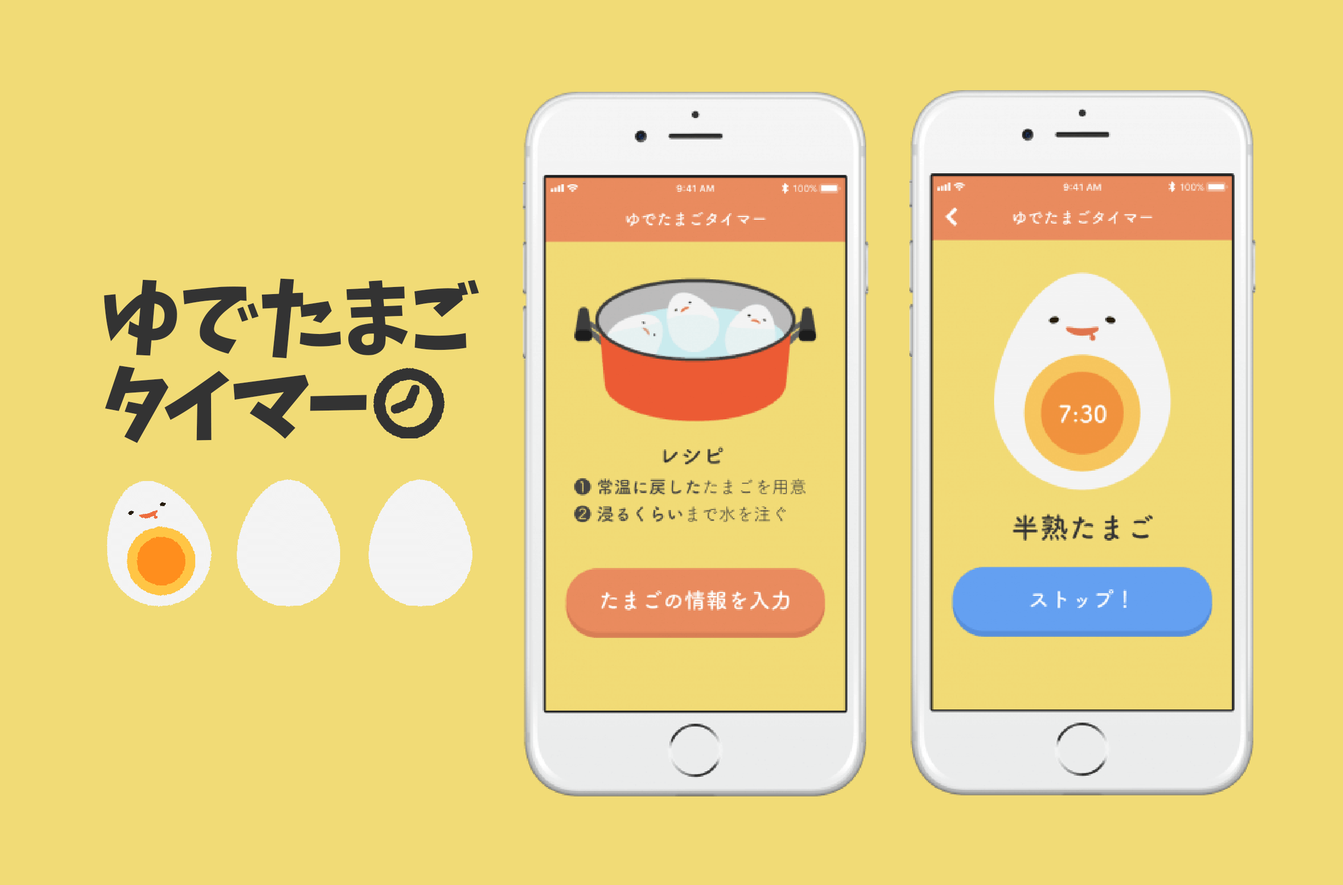
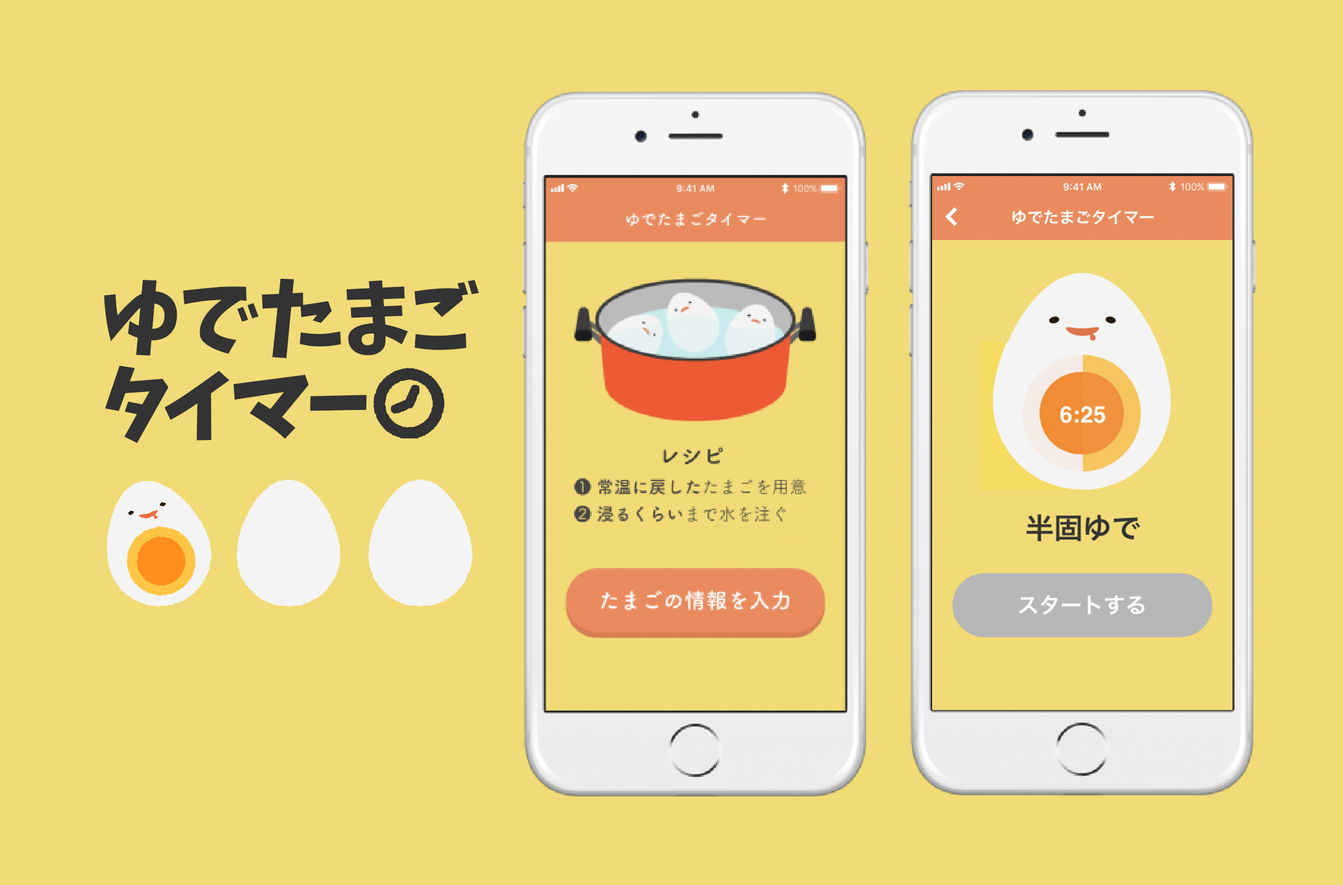
一旦push

Changed region(s): [[0.7117, 0.4015, 0.9283, 0.7412], [0.7427, 0.1853, 0.8355, 0.2779], [0.8664, 0.1853, 0.8974, 0.2162]]

diff --git a/work-all.html b/work-all.html
@@ -41,7 +41,18 @@
     <div id="works">
         <a href="index.html" class="works__back"><i class="fas fa-caret-left"></i> TOPへ戻る</a>
         <h2> WORKS </h2>
+
         <div class="works__contents">
+            <a href="mousehat.html" class="works__contents--link">
+                <div class="works__contents--column">
+                    <div class="works__contents--img"><img src="imgs/create/mousehat.png" alt="Mousehat"></div>
+                    <div class="works__contents--txt">
+                        <h3>Mousehat</h3>
+                        <span class="works__contents--about">口癖を直すサポートをするWebアプリです。上手く発表がしたい人や口癖を直したい人、気付きたい人がターゲットです。私はUIデザインとUXデザインを担当しました。</span>
+                        <span class="works__contents--more">MORE</span>
+                    </div>
+                </div>
+            </a>
             <a href="boiled-egg.html" class="works__contents--link">
                 <div class="works__contents--column">
                     <div class="works__contents--img"><img src="imgs/create/boiled_egg.png" alt="ゆでたまごタイマー"></div>
@@ -64,6 +75,20 @@
                     </div>
                 </div>
             </a>
+        </div>
+        <div class="works__contents">
+
+
+            <a href="waths_hobby.html" class="works__contents--link">
+                <div class="works__contents--column">
+                    <div class="works__contents--img"><img src="imgs/create/whats_hobby.png" alt="汝の趣味はなんや?"></div>
+                    <div class="works__contents--txt">
+                        <h3>汝の趣味はなんや?</h3>
+                        <span class="works__contents--about">サークル内のハッカソンで作ったアプリで企画・制作を担当しました。趣味版の人狼ゲームで、他の人の趣味を当てることで参加者が仲良くなることを目的としたアプリです。</span>
+                        <span class="works__contents--more">MORE</span>
+                    </div>
+                </div>
+            </a>
             <a href="interactive-nail.html" class="works__contents--link">
                 <div class="works__contents--column">
                     <div class="works__contents--img">
@@ -72,30 +97,6 @@
                     <div class="works__contents--txt">
                         <h3>InteractiveNail　</h3>
                         <span class="works__contents--about">カーソル位置によって背景色と爪の色が変わるコンテンツです。インタラクティブで楽しいコンテンツで、いろんな色のネイルを試してみたいという気持ちから作った作品です。</span>
-                        <span class="works__contents--more">MORE</span>
-                    </div>
-                </div>
-            </a>
-        </div>
-        <div class="works__contents">
-            <a href="https://www.pinterest.jp/pin/668784613399795422" class="works__contents--link">
-                <div class="works__contents--column">
-                    <div class="works__contents--img">
-                        <img src="imgs/create/character_illust.png" alt="女の子のイラストアイコン">
-                    </div>
-                    <div class="works__contents--txt">
-                        <h3>女の子のイラストアイコン</h3>
-                        <span class="works__contents--about">Illustratorで作成した女の子のイラストアイコンです。シンプルなパーツでも喜怒哀楽の表情が伝わるようにした部分がポイントです。</span>
-                        <span class="works__contents--more">MORE</span>
-                    </div>
-                </div>
-            </a>
-            <a href="whats_hobby.html" class="works__contents--link">
-                <div class="works__contents--column">
-                    <div class="works__contents--img"><img src="imgs/create/whats_hobby.png" alt="汝の趣味はなんや?"></div>
-                    <div class="works__contents--txt">
-                        <h3>汝の趣味はなんや?</h3>
-                        <span class="works__contents--about">サークル内のハッカソンで作ったアプリで企画・制作を担当しました。趣味版の人狼ゲームで、他の人の趣味を当てることで参加者が仲良くなることを目的としたアプリです。</span>
                         <span class="works__contents--more">MORE</span>
                     </div>
                 </div>
@@ -114,6 +115,29 @@
             </a>
         </div>
         <div class="works__contents">
+            <a href="https://www.pinterest.jp/pin/668784613399795422" class="works__contents--link">
+                <div class="works__contents--column">
+                    <div class="works__contents--img">
+                        <img src="imgs/create/character_illust.png" alt="女の子のイラストアイコン">
+                    </div>
+                    <div class="works__contents--txt">
+                        <h3>女の子のイラストアイコン</h3>
+                        <span class="works__contents--about">Illustratorで作成した女の子のイラストアイコンです。シンプルなパーツでも喜怒哀楽の表情が伝わるようにした部分がポイントです。</span>
+                        <span class="works__contents--more">MORE</span>
+                    </div>
+                </div>
+            </a>
+
+            <a href="https://www.pinterest.jp/pin/668784613395435766/" class="works__contents--link">
+                <div class="works__contents--column">
+                    <div class="works__contents--img"><img src="imgs/create/newyearcard2019.png" alt="年賀状2019"></div>
+                    <div class="works__contents--txt">
+                        <h3>年賀状2019</h3>
+                        <span class="works__contents--about">2019年の年賀状です。私のあだ名である「きなこ」と正月らしいお餅や風雲のモチーフを散りばめ、私からの年賀状だということがひと目でわかるようなデザインにしました</span>
+                        <span class="works__contents--more">MORE</span>
+                    </div>
+                </div>
+            </a>
             <a href="https://jack-web.herokuapp.com/" class="works__contents--link">
                 <div class="works__contents--column">
                     <div class="works__contents--img">
@@ -126,12 +150,16 @@
                     </div>
                 </div>
             </a>
-            <a href="https://www.pinterest.jp/pin/668784613395435766/" class="works__contents--link">
+
+        </div>
+        <div class="works__contents">
+
+            <a href="https://www.pinterest.jp/pin/668784613399885773/" class="works__contents--link">
                 <div class="works__contents--column">
-                    <div class="works__contents--img"><img src="imgs/create/newyearcard2019.png" alt="年賀状2019"></div>
+                    <div class="works__contents--img"><img src="imgs/create/02gelatopiqueAutumnsale-renew.png" alt="ルームウェアの秋セールバナー"></div>
                     <div class="works__contents--txt">
-                        <h3>年賀状2019</h3>
-                        <span class="works__contents--about">2019年の年賀状です。私のあだ名である「きなこ」と正月らしいお餅や風雲のモチーフを散りばめ、私からの年賀状だということがひと目でわかるようなデザインにしました</span>
+                        <h3>ルームウェアの秋セールバナー</h3>
+                        <span class="works__contents--about">ルームウェアの秋セールバナーを想定した架空のバナーです。商品のイメージが伝わる装飾をすることや、視線誘導や情報処理を正しく行う練習になりました。</span>
                         <span class="works__contents--more">MORE</span>
                     </div>
                 </div>
@@ -144,6 +172,16 @@
                     <div class="works__contents--txt">
                         <h3>ペアデザイン</h3>
                         <span class="works__contents--about">WEBデザイナーとしてスキルアップしたいと思い、始めた取り組みです。ペアで共通のテーマを決め、お互いのデザインをコーディングするというものです。</span>
+                        <span class="works__contents--more">MORE</span>
+                    </div>
+                </div>
+            </a>
+            <a href="boiled-egg.html" class="works__contents--link">
+                <div class="works__contents--column">
+                    <div class="works__contents--img"><img src="imgs/create/boiled_egg.png" alt="おすそわけキャンパス"></div>
+                    <div class="works__contents--txt">
+                        <h3>おすそわけキャンパス</h3>
+                        <span class="works__contents--about">1人暮らしで料理好きな大学生向けに、食材のシェアリングサービスを考えました。ユーザーテストやユーザーインタビューを重ねて改善中です。</span>
                         <span class="works__contents--more">MORE</span>
                     </div>
                 </div>

diff --git a/boiled-egg.html b/boiled-egg.html
@@ -33,7 +33,6 @@
         gtag('js', new Date());
 
         gtag('config', 'UA-122093800-3');
-
     </script>
 
 </head>
@@ -49,27 +48,42 @@
                     <h3>概要</h3>
                     料理初心者でも簡単にゆでたまごが作れるタイマーのデザインをしました。
                     <img src="imgs/create/about/boiled_egg/tamago_face.png" alt="ゆで具合によって変わるゆでたまごの表情"> ゆでている途中でたまごの状態を確認できることと、シンプルでわかりやすく可愛いUIが特徴です。
-                    <br><br>また、友人に実装してもらい、現在AppStoreにリリース申請中です。<br><br>
+                    <br><br>また、友人に実装してもらい、現在AppStoreにリリース申請中です。<br><br>現在、友人や家族にTestflightで試してもらいながら改善を行なっています。（下記参照）<br><br>
                     <a class="link-important" href="https://xd.adobe.com/view/734c06a6-1743-44b7-42e2-7f0d1623abf8-057d/">プロトタイプ</a>
                 </div>
                 <div class="works__single--txt">
                     <h3>きっかけ</h3>
                     このアプリを作ろうとしたきっかけは、自分で半熟たまごを作ろうとして失敗したことからです。<br><br>
                     <img src="imgs/create/about/boiled_egg/kizon.png" alt="既存のゆでたまごタイマー">既存のゆでたまごタイマーはたまごを茹でている途中の状態がわからなかったり、作業感のあるものばかりでした。<br><br>そのため、ゆで途中のたまごの状態がわかるようにし、さらに可愛いキャラクターを用いることで料理中の体験を楽しくするような工夫を取り入れました。
-                    <br><br>現在、友人や家族にTestflightで試してもらいながら改善を行なっています。（下記参照）
+                    <br><br> 現在、Testflightの状態で試してもらえる周りの人は料理上級者ばかりで、UIの検証・改善しか出来ていない状態です。<br>
+                    <br> リリース後は料理初心者に試してもらい、改善を繰り返したいと思います。
                 </div>
             </div>
             <div class="works__single--txts">
                 <div class="works__single--txt">
                     <h3>改善中</h3>
-                    <h4>1回目のユーザーテスト</h4>
-                    母親に自宅のキッチンで実際に使ってもらった結果、以下の課題が見つかりました。
+                    <h4>母親に試してもらって（1回目のユーザーテスト）</h4>
+                    今回のユーザーテストの目的は、UIなどで使いにくい部分がないか確認してもらうことでした。<br><br>
+                    <img src="imgs/create/about/boiled_egg/user1_mother.png" alt="母親の属性"> 母親に自宅のキッチンで実際に使ってもらった結果、以下の課題が見つかりました。
                     <ul>
-                        <li>レシピに火加減が書いていない</li>
+                        <li>レシピに火加減が書いていないから困る</li>
                         <li>スタートボタンを押したのかわからないUI</li>
-                        <li>「固ゆで」で作ったたまごが半生だった</li>
+                        <li>「固ゆで」で作ったたまごが半固ゆでだった</li>
                     </ul>
-                    <img src="imgs/create/about/boiled_egg/kaizen1.png" alt="テスト1回目の改善案">
+                    <img src="imgs/create/about/boiled_egg/kaizen1.png" alt="テスト1回目の改善案"> XDのプロトタイプで上記の仮説を反映させたものを作り、2回目のユーザーテストを行いました。
+                </div>
+                <div class="works__single--txt">
+                    <h3 class="no-deco-h3"></h3>
+                    <h4>友人に試してもらって（2回目のユーザーテスト）</h4>
+                    今回のユーザーテストの目的は、プロトタイプで改善したものを触ってもらって、1回目のユーザーテストで立てた仮説を検証することでした。<br><br>
+                    <img src="imgs/create/about/boiled_egg/user2_friend.png" alt="友人の属性"> 友人の家で実際に使ってもらった結果、以下のことがわかりました。
+                    <ul>
+                        <li>とろとろたまごは殻が剥けないので、ゆでたまごには不向きかもしれない</li>
+                        <li>殻をむきやすくする方法もあった方が良い</li>
+                        <li>コンロの火力が違ったため、強火でもとろとろ卵だった</li>
+                        <li>しかし、基準の時間から3分足すと成功する</li>
+                    </ul>
+                    <img src="imgs/create/about/boiled_egg/kaizen1.png" alt="テスト2回目の改善案"> 今回得られた発見を反映させ、今後は初心者の人に試してもらいたいと思います。
                 </div>
             </div>
         </div>

diff --git a/portfolio2019.html b/portfolio2019.html
@@ -45,15 +45,18 @@
             <div class="works__single--img"><img src="imgs/create/portfolio2019.png" alt="PORTFOLIO2019"></div>
             <div class="works__single--txts">
                 <div class="works__single--txt">
-                    <h3>概要</h3>
-                    自分のことや作品について知ってもらうためのポートフォリオサイトです。<br> 私はよく「ふわふわしている」と言われるのでふわふわとしたモチーフをトップに散りばめ、ポートフォリオ全体の雰囲気もパステルカラーや丸いフォントを用いることで私のイメージを表現しました。
+                    <h3>どんなポートフォリオ?</h3>
+                    自分のことや作品について知ってもらうためのポートフォリオサイトです。<br>
+                    <img src="imgs/create/about/portfolio/new_portfolio.png" alt="新ポートフォリオ"> 私はよく「ふわふわしている」と言われるのでふわふわとしたモチーフをトップに散りばめ、ポートフォリオ全体の雰囲気もパステルカラーや丸いフォントを用いることで私のイメージを表現しました。
+                    <br>
                     <br> HTML,CSS,JSを用いて作っており、jQueryを使わないことで少しでも読み込み速度が早くなるようにしました。
-                    <br> トップのふわふわとした丸いモチーフは
+                    <br><br>トップのふわふわとした丸いモチーフは
                     <a href="https://github.com/tipsy/bubbly-bg">bubbly-bg</a>を用いて表現しました。<br>
                 </div>
                 <div class="works__single--txt">
                     <h3>カイゼン</h3>
-                    昨年の７月頃に作成したポートフォリオサイト（<a href="https://i-am-asuka.netlify.com/">前回のポートフォリオサイトはこちら</a>）のよかったところ・改善点を元に今回のポートフォリオサイトの骨組みを作っていきました。<br><br> まず、前回のポートフォリオサイトは「私らしさ」が足りないということがあったり「色がない」という指摘があったりしたため、自分らしさを表すモチーフや配色のデザインを行いました。
+                    昨年の７月頃に作成した<a href="https://i-am-asuka.netlify.com/">ポートフォリオサイト</a>のよかったところ・改善点を元に今回のポートフォリオサイトの骨組みを作っていきました。<br>
+                    <img src="imgs/create/about/portfolio/old_portfolio.png" alt="旧ポートフォリオ"> まず、前回のポートフォリオサイトは「私らしさ」が足りないということがあったり「色がない」という指摘があったりしたため、自分らしさを表すモチーフや配色のデザインを行いました。<br>
                     <br> また、作品についての詳細が足りないという見る側の改善点や、作品を増やした時にページが長くなってしまうことでメンテナンスが大変という作る側の改善点などが多くあったため、作品のページも拡張性のあるものにしました。<br><br>これらの改善を行い、GoogleAnalyticsで公開から１ヶ月の滞在時間や直帰率を見た結果、滞在時間は1分37秒から0分58秒に、直帰率は81.89%から65.12%へと変化しました。
                     <br><br> 滞在時間の減少は作品ページから直接作品のリンクへ飛ぶように設定していたことから起こったことだと思うので、今後はこのような作品個別のページを設置することで滞在時間が長くなるかどうか見て行こうと思います。
                     <br><br> 直帰率の減少は恐らく作品一覧のページを作ったことによるものだと思います。トップページから作品一覧のページに移動した人が約50%いるので、今後も作品の質を上げたり個別ページに移動してもらえるような内容にしたりすることで改善を続けていき直帰率を減らしていきたいです。

diff --git a/mousehat.html b/mousehat.html
@@ -6,10 +6,10 @@
     <meta charSet="utf-8" />
     <meta http-equiv="x-ua-compatible" content="ie=edge" />
     <meta name="viewport" content="width=device-width, initial-scale=1, shrink-to-fit=no" />
-    <link rel="stylesheet" href="/css/style.css">
-    <link rel="stylesheet" href="/css/works.css">
-    <link rel="stylesheet" href="/css/works-single.css">
-    <link rel="stylesheet" href="/css/footer.css">
+    <link rel="stylesheet" href="css/style.css">
+    <link rel="stylesheet" href="css/works.css">
+    <link rel="stylesheet" href="css/works-single.css">
+    <link rel="stylesheet" href="css/footer.css">
     <link rel="stylesheet" href="https://use.fontawesome.com/releases/v5.8.2/css/all.css" integrity="sha384-oS3vJWv+0UjzBfQzYUhtDYW+Pj2yciDJxpsK1OYPAYjqT085Qq/1cq5FLXAZQ7Ay" crossorigin="anonymous">
     <link rel="icon" type="image/x-icon" href="/imgs/favicon.ico">
     <script src="https://cdnjs.cloudflare.com/ajax/libs/p5.js/0.8.0/p5.min.js"></script>
@@ -33,7 +33,6 @@
         gtag('js', new Date());
 
         gtag('config', 'UA-122093800-3');
-
     </script>
 
 </head>
@@ -43,15 +42,21 @@
         <a href="index.html" class="works__back"><i class="fas fa-caret-left"></i> TOPへ戻る</a>
         <div class="works__single">
             <h2>Mousehat</h2>
-            <div class="works__single--img"><img src="imgs/create/boiled_egg.png" alt="Mousehat"></div>
+            <div class="works__single--img"><img src="imgs/create/mousehat.png" alt="Mousehat"></div>
             <div class="works__single--txts">
                 <div class="works__single--txt">
-                    <h3>概要</h3>
-                    「自分の口癖を直すこと」を目的に「自分の口癖を知る」「口癖を言った時に教えてくれる」機能があるアプリを作成しました。<br><a class="link-important" href="https://mousehat.tokyo">実際のデモ</a>
+                    <h3>Mousehatとは</h3>
+                    「自分の口癖を直すこと」を目的に「自分の口癖を知る」「口癖を言った時に教えてくれる」機能があるWebアプリを作成しました。<br><br>
+                    <a class="link-important" href="https://mousehat.tokyo">実際のページ</a><br> Mousehatは自分の話し声を録音するだけで口癖を抽出してくれるため、自分が持っている口癖に気付くことができます。
+                    <img src="imgs/create/about/mousehat/notification.png" alt="リアルタイムなフィードバック"> さらに、自分の口癖が出てしまった時に、バイブレーションなどで教えてくれるため、自分が口癖を言ったことにリアルタイムで気付くことが出来ます。
+                    <img src="imgs/create/about/mousehat/jphacks.png" alt="jphacks"> また、
+                    <a href="https://jphacks.com/2019/result/">JPHACKS2019</a>というハッカソンで企業賞（NTTレゾナント賞、日本ビジネスシステムズ賞、ベース賞）とイノベーター認定をいただきました。
                 </div>
                 <div class="works__single--txt">
-                    <h3>ポイント</h3>
-
+                    <h3>作成プロセスや改善について</h3>
+                    初めは、「帽子で防止」というキャッチフレーズで「スマホを埋め込んだ帽子を使って口癖を改善する」というものでした。<br>
+                    <img src="imgs/create/about/mousehat/first_idea.png" alt="最初のアイデア"> しかし、ユーザーテストをしたことによって
+                    <img src="imgs/create/about/mousehat/first_kadai.png" alt="課題">
                 </div>
             </div>
         </div>

diff --git a/index.html b/index.html
@@ -49,7 +49,17 @@
     <div id="works">
         <h2> WORKS </h2>
         <div class="works__contents">
-            <a href="boiled-egg.html">
+            <a href="mousehat.html" class="works__contents--link">
+                <div class="works__contents--column">
+                    <div class="works__contents--img"><img src="imgs/create/mousehat.png" alt="Mousehat"></div>
+                    <div class="works__contents--txt">
+                        <h3>Mousehat</h3>
+                        <span class="works__contents--about">口癖を直すサポートをするWebアプリです。上手く発表がしたい人や口癖を直したい人、気付きたい人がターゲットです。私はUIデザインとUXデザインを担当しました。</span>
+                        <span class="works__contents--more">MORE</span>
+                    </div>
+                </div>
+            </a>
+            <a href="boiled-egg.html" class="works__contents--link">
                 <div class="works__contents--column">
                     <div class="works__contents--img"><img src="imgs/create/boiled_egg.png" alt="ゆでたまごタイマー"></div>
                     <div class="works__contents--txt">
@@ -67,18 +77,6 @@
                     <div class="works__contents--txt">
                         <h3>ポートフォリオサイト</h3>
                         <span class="works__contents--about">このポートフォリオサイトです。私はよく「ふわふわしてるね」と言われるので、パステルカラーとふわふわのモチーフを中心に作り、私らしさを出しました。</span>
-                        <span class="works__contents--more">MORE</span>
-                    </div>
-                </div>
-            </a>
-            <a href="interactive-nail.html" class="works__contents--link">
-                <div class="works__contents--column">
-                    <div class="works__contents--img">
-                        <img src="imgs/create/interactivenail.gif" alt="IntractiveNail">
-                    </div>
-                    <div class="works__contents--txt">
-                        <h3>InteractiveNail</h3>
-                        <span class="works__contents--about">カーソル位置によって背景色と爪の色が変わるコンテンツです。インタラクティブで楽しいコンテンツで、いろんな色のネイルを試してみたいという気持ちから作った作品です。</span>
                         <span class="works__contents--more">MORE</span>
                     </div>
                 </div>

diff --git a/whats_hobby.html b/whats_hobby.html
@@ -33,7 +33,6 @@
         gtag('js', new Date());
 
         gtag('config', 'UA-122093800-3');
-
     </script>
 
 </head>
@@ -46,7 +45,7 @@
             <div class="works__single--img"><img src="imgs/create/whats_hobby.png" alt="汝の趣味はなんや?"></div>
             <div class="works__single--txts">
                 <div class="works__single--txt">
-                    <h3>概要</h3>
+                    <h3>どんなアプリ?</h3>
                     <a href="https://jack-web.herokuapp.com/">サークル</a>内のハッカソンで作ったアプリです。<br><br>趣味版の人狼ゲームで、他の人の趣味を当てることで参加者が仲良くなることを目的としています。<br><br>私はチームのリーダーとしてアプリのUIやロゴデザイン、Monacaを用いたHTMLとCSSでの実装、プレゼンを担当しました。<br>
                     <br><a class="link-important" href="https://www.figma.com/proto/FKyoX3Lt0l8zxAcEaDA3Pw/%E8%B6%A3%E5%91%B3%E4%BA%BA%E7%8B%BC?node-id=1%3A2&viewport=286%2C332%2C0.15966686606407166&scaling=scale-down">プロトタイプ</a><br><a class="link-normal" href="https://www.youtube.com/watch?v=Jfo4EKjOO40&t=42s">デモ動画</a>
                 </div>

diff --git a/interactive-nail.html b/interactive-nail.html
@@ -32,7 +32,6 @@
         gtag('js', new Date());
 
         gtag('config', 'UA-122093800-3');
-
     </script>
 
 </head>
@@ -45,7 +44,7 @@
             <div class="works__single--img"><img src="imgs/create/interactivenail.gif" alt="InteractiveNail"></div>
             <div class="works__single--txts">
                 <div class="works__single--txt">
-                    <h3>概要</h3>
+                    <h3>InteractiveNailとは?</h3>
                     カーソル位置によって背景色と爪の色が変わるコンテンツです。<br> インタラクティブで楽しいコンテンツで、いろんな色のネイルを試してみたいという気持ちから作った作品です。
                     <br><a class="link-important" href="https://interactive-nail.netlify.com/">実際のページ(PCのみ)</a>
                 </div>

diff --git a/css/works-single.css b/css/works-single.css
@@ -14,6 +14,11 @@
     margin-right: 0.5rem;
 }
 
+.no-deco-h3::before {
+    content: '' !important;
+    margin-right: 0;
+}
+
 .works__single a {
     color: #ff89c7;
 }
@@ -40,6 +45,7 @@
 .works__single--txt {
     width: 35vw;
     text-align: left;
+    font-weight: normal;
 }
 
 .works__single--txt img {
